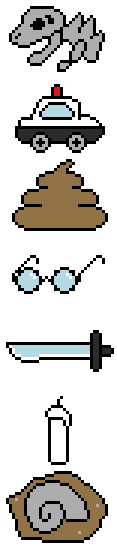
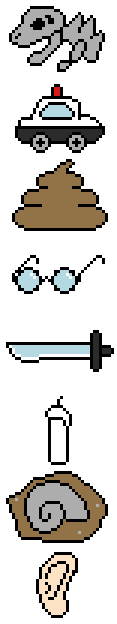
Update assets

diff --git a/game/main.go b/game/main.go
@@ -181,7 +181,7 @@ func NewGameScene() *GameScene {
 	treasures := make([]*Treasure, 3)
 	windows := make([]*ui.Window, 0, 3)
 	for i := 0; i < 3; i++ {
-		id := rand.Intn(3)
+		id := rand.Intn(8)
 		treasures[i] = &Treasure{
 			ID: id,
 		}
